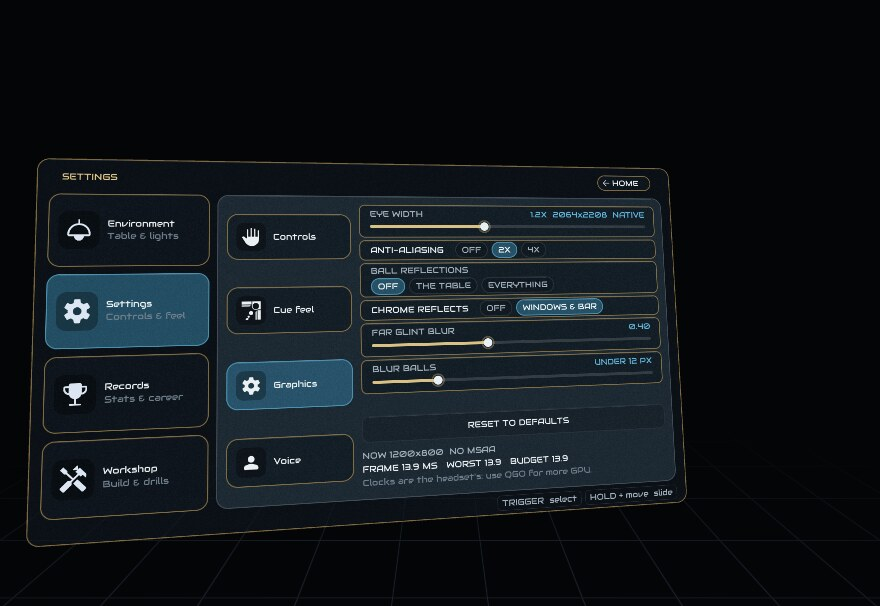
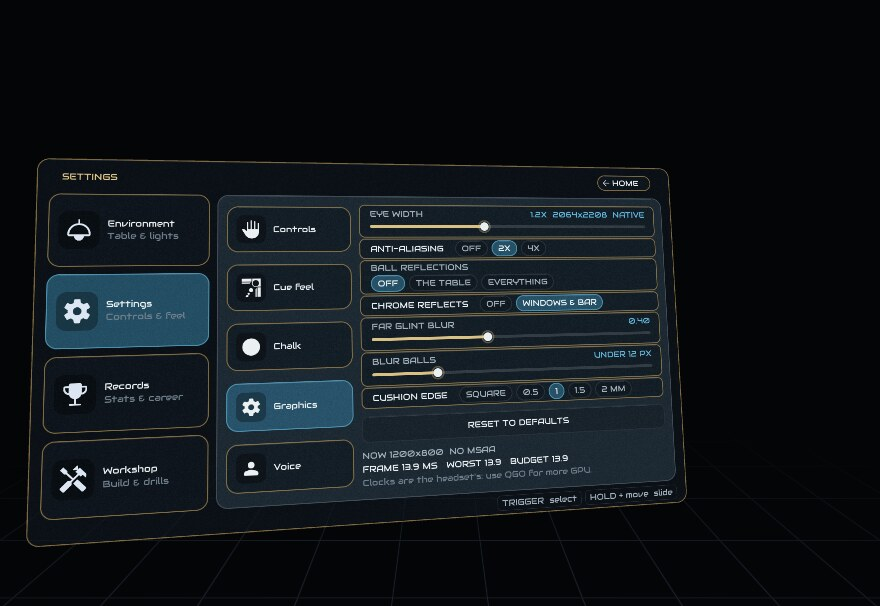
The guide names the cushion edge on the graphics screen

Changed region(s): [[0.2455, 0.3267, 0.767, 0.8317]]

diff --git a/docs/cuevr-guide.html b/docs/cuevr-guide.html
@@ -306,8 +306,8 @@
     <tr><td><b>Lighting and surroundings</b></td><td><b>Environment</b> &rarr; <b>Lighting</b> or
       <b>Surroundings</b>. Your room, the dark hall and the arena are also three chips on the
       <b>pause menu</b>, since that is the one you change mid-frame.</td></tr>
-    <tr><td><b>Resolution, anti-aliasing, ball reflections</b></td><td><b>Settings &rarr;
-      Graphics</b>, which also prints what the last frame cost.</td></tr>
+    <tr><td><b>Resolution, anti-aliasing, ball reflections, cushion edge</b></td><td><b>Settings
+      &rarr; Graphics</b>, which also prints what the last frame cost.</td></tr>
     <tr><td><b>Move the table, or set its height again</b></td><td><b>Environment &rarr;
       Table</b>, or the <b>Table</b> square on the pause menu.</td></tr>
     <tr><td><b>Move the scoreboard</b></td><td><b>Environment &rarr; Scoreboard</b>. See
@@ -339,8 +339,9 @@
       <figcaption>The strip along the foot &mdash; <b>TABLE</b>, <b>CLOTH</b>, <b>TIMBER</b>,
       <b>BALLS</b>, <b>CUE</b> &mdash; is how the table looks.</figcaption></figure>
     <figure><img src="img/cuevr/menu-graphics.jpg" alt="The graphics screen">
-      <figcaption><b>Settings &rarr; Graphics</b> — eye width, anti-aliasing and how much of the
-      room the balls reflect, with what the last frame cost underneath.</figcaption></figure>
+      <figcaption><b>Settings &rarr; Graphics</b> — eye width, anti-aliasing, how much of the
+      room the balls reflect, and how much of an edge the cushion's nose carries, with what the
+      last frame cost underneath.</figcaption></figure>
     <figure><img src="img/cuevr/menu-controls.jpg" alt="The controls screen">
       <figcaption><b>Settings &rarr; Controls</b> — which hand holds the cue, controllers or a real
       cue, and how the sticks move the table.</figcaption></figure>
